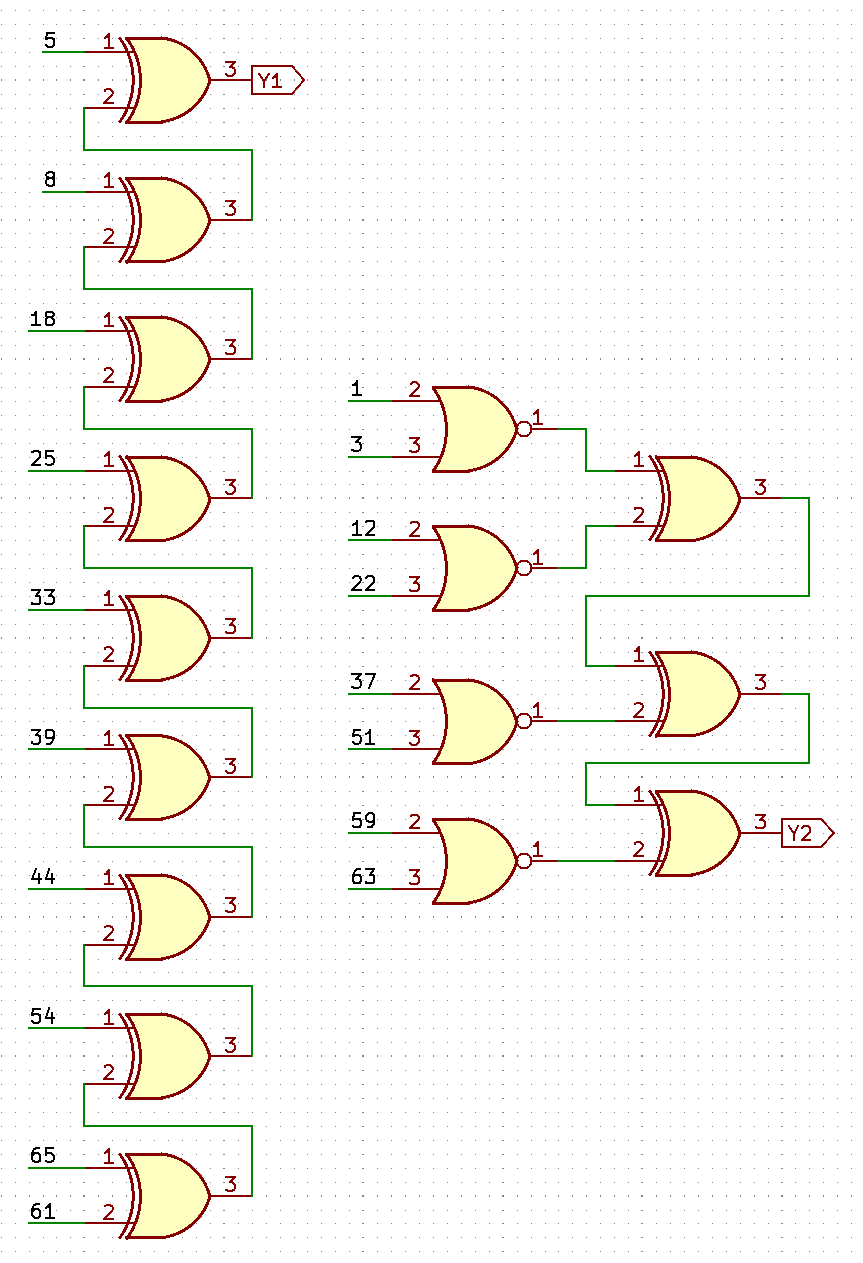
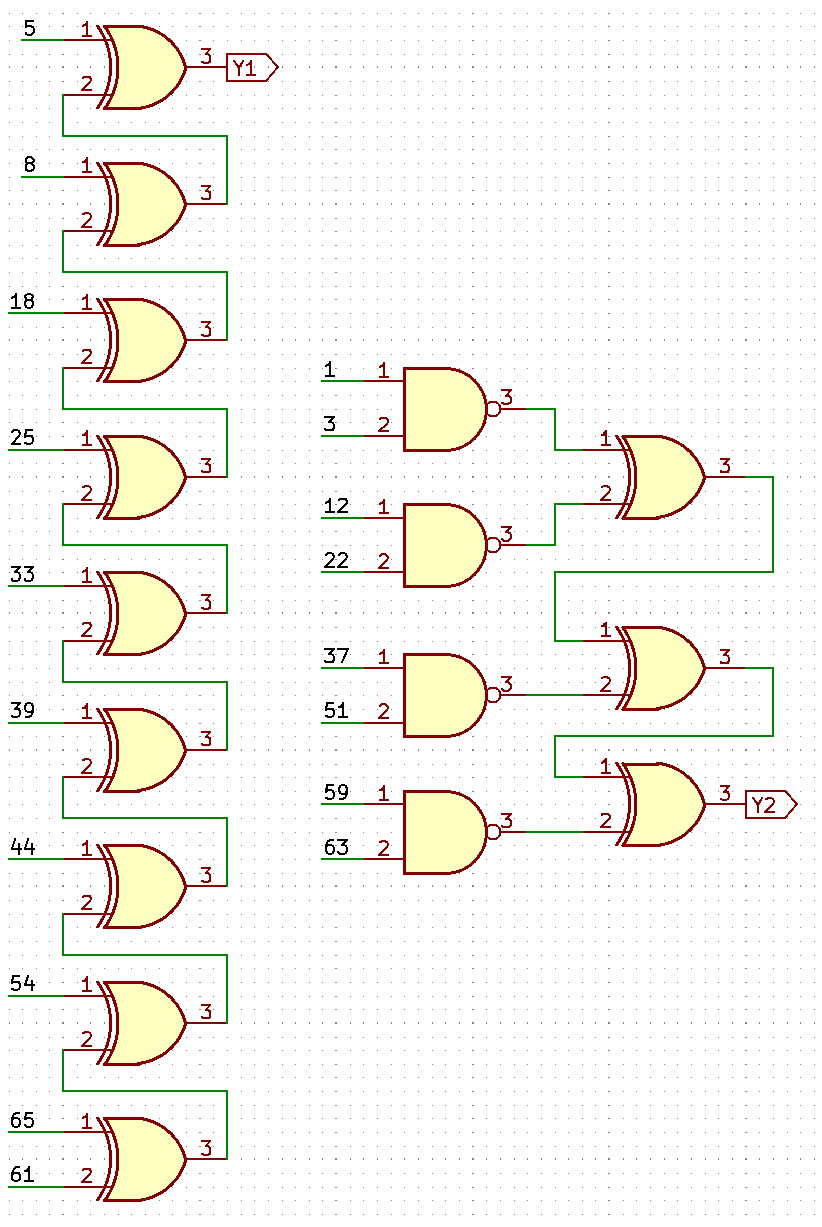
fixes

diff --git a/_posts/2024-07-23-siemens-m1327-part-2.md b/_posts/2024-07-23-siemens-m1327-part-2.md
@@ -72,13 +72,13 @@ Going through all the cells and marking present/absent transistors (black = pres
 
 Time to deal with the gates upstairs now. Well, in fact, one gate was already reverse engineered in [part 1](/blarg/2024/07/22/siemens-m1327-part-1.html). There are several variations on the XOR theme, but in general they all follow the same schematic even though the layout differs for some reason.
 
-The other kind of a gate in use here is a NOR. It's so simple it makes no sense to conduct detailed RE here; just two NMOS transistors and a load stacked like a totem pole.
+The other kind of a gate in use here is a NAND. It's so simple it makes no sense to conduct detailed RE here; just two NMOS transistors and a load stacked like a totem pole.
 
 There are 16 gates in total there, and 2 outputs. Crunching through them and noting connections in KiCad, I got this schematic:
 
 ![Schematic of the combinatorial part](/blarg/assets/20240723/unit-schematic-2.png)
 
-I wonder why we have two separate chains with absolutely different taps. I wonder why they decided to build this as a chain instead of a tree. I wonder why NOR gates are used. So many questions, and no answers (yet).
+I wonder why we have two separate chains with absolutely different taps. I wonder why they decided to build this as a chain instead of a tree. I wonder why NAND gates are used. So many questions, and no answers (yet).
 
 # Well?
 
